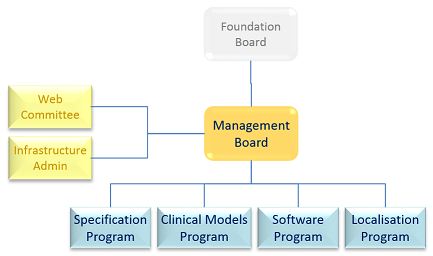
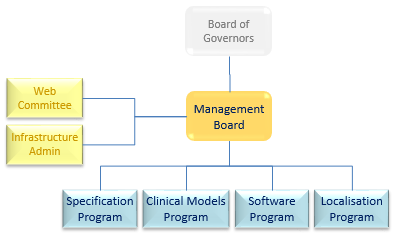
Corrections to openEHR governance page.

diff --git a/pages/about/governance_structure.php b/pages/about/governance_structure.php
@@ -12,13 +12,13 @@ require_once($_SERVER['DOCUMENT_ROOT'].'templates/_header.php');
 			
 			<h1><?php echo "$PageName";?></h1>
 			
-			<p>The openEHR Foundation is governed in terms of legal and fiduciary responsibilities by a small number Directors appointed by University College London (UCL) to the openEHR Foundation Board.</p>
+			<p>The openEHR Foundation is governed in terms of legal and fiduciary responsibilities by a small number Directors appointed by University College London (UCL) to the openEHR Board of Governors.</p>
 			<p>Strategic and operational decisions are made by a larger Management Board, representative of the wider community, which includes Members appointed by the various interest groups that make up the openEHR community.</p>
 			<p>The organisational structure below this is based on a division of activities into four Programs: Specifications, Clinical models, Software and Localisation. Work is carried out in projects within these Programs by Program leads and members.</p>
 			<p>The structure is shown below.</p>
 			<p style="text-align:center;"><img src="/files/about/OrganisationalStructure.png" alt="Foundation Governance Structure" title="Foundation Governance Structure" style="border: solid 1px #CCCCCC;" usemap="#orgstructure"></p>
 			<map name="orgstructure">
-				<area shape="rect" coords="206,8,300,62" href="#foundationboard"/>
+				<area shape="rect" coords="206,8,300,62" href="#boardofgovernors"/>
 				<area shape="rect" coords="206,105,300,160" href="#managementboard"/>
 				<area shape="rect" coords="70,208,150,250" href="/programs/specification"/>
 				<area shape="rect" coords="160,208,250,250" href="/programs/clinicalmodels"/>
@@ -27,18 +27,26 @@ require_once($_SERVER['DOCUMENT_ROOT'].'templates/_header.php');
 			</map> 
 			
 			
-			<h2><a name="foundationboard"></a>Foundation Board</h2>
-			<p>The openEHR Foundation Board oversees the proper functioning of the openEHR Foundation with respect to its charter and status as a not-for-profit organisation. The Foundation Board appoints the Chair and one other Member of the Management Board from the openEHR Foundation Board, to ensure close cooperation and mutual understanding between these two governance groups.</p>
-			<p>The openEHR Foundation Board responsibilities include:</p>
+			<h2><a name="boardofgovernors"></a>Board of Governors</h2>
+			<p>The openEHR Board of Governors oversees the proper functioning of the openEHR Foundation with respect to its charter and status as a not-for-profit organisation. The Board of Governors appoints the Chair and one other Member of the Management Board from the openEHR Board of Governors, to ensure close cooperation and mutual understanding between these two governance groups.</p>
+			<p>The openEHR Board of Governors responsibilities include:</p>
 			<ul>
 				<li>Ensure the organisation remains 'on mission';</li>
 				<li>Maintain strategic connections to the e-health sector;</li>
 				<li>Develop strategy and determine overall priorities for use of funds.</li>
 			</ul>
-			<p>See members of the Foundation Board <a href="people_in_governance#foundationboard">here</a>.</p>
 			
 			<h2 id="managementboard">Management Board</h2>
-			<p>The openEHR Management Board exists to coordinate Programme activities, and ensure they are synchronised with the current priorities of the Foundation Board. Its membership consists of the Chair and one other Member of the Foundation Board. A further five Members of the Management Board are elected; two by Qualified Members working within the 4 Program Areas (Specification, Software, Clinical Modelling, Localisation), two by the Industry Partners Group and 1 by the Academic Partners Group. A further two Management Board positions are available to be appointed by the Management Board, to extend its skill base. The Management Board Chair is entitled to invite additional individuals to attend, as required for specific purposes.</p>
+			<p>The openEHR Management Board exists to coordinate Programme activities, and ensure they are synchronised with the current priorities of the Board of Governors. Its membership consists of five members, with up to three further co-opted positions:
+			<ul>
+				<li>One position appointed by the Board of Governors, from the Board of Governors;</li>
+				<li>Two positions elected by Individual Members;</li>
+				<li>Two positions elected by the Industry Partner Members.</li>
+				<li>Up to three further Individual Members may be co-opted to extend the skill base, where agreed unanimously by the Management Board.</li>
+			</ul>
+			
+			<p>The Management Board Chair is entitled to invite additional individuals to attend, as required for specific purposes.</li>
+			<p>The terms for members of the Management Board will be three years.  Individual Members may stand for a total of three terms.</p>
 			<p>The openEHR Management Board responsibilities include:</p>
 			<ul>
 				<li>Manage requirements gathering and documentation;</li>

diff --git a/pages/about/people_in_governance.php b/pages/about/people_in_governance.php
@@ -12,9 +12,9 @@ require_once($_SERVER['DOCUMENT_ROOT'].'templates/_header.php');
 			
 			<h1><?php echo "$PageName";?></h1>
 			
-			<h2 id="foundationboard">Foundation Board</h2>
+			<h2 id="foundationboard">Board of Governors</h2>
 			
-			<h3 style="margin-left:1em;">Dr. Sam Heard - Chair of the Foundation Board (Australia)</h3>
+			<h3 style="margin-left:1em;">Dr. Sam Heard - Chair of the Board (Australia)</h3>
 			<table class="TableInvisible">
 			<tbody>
 			<tr>
